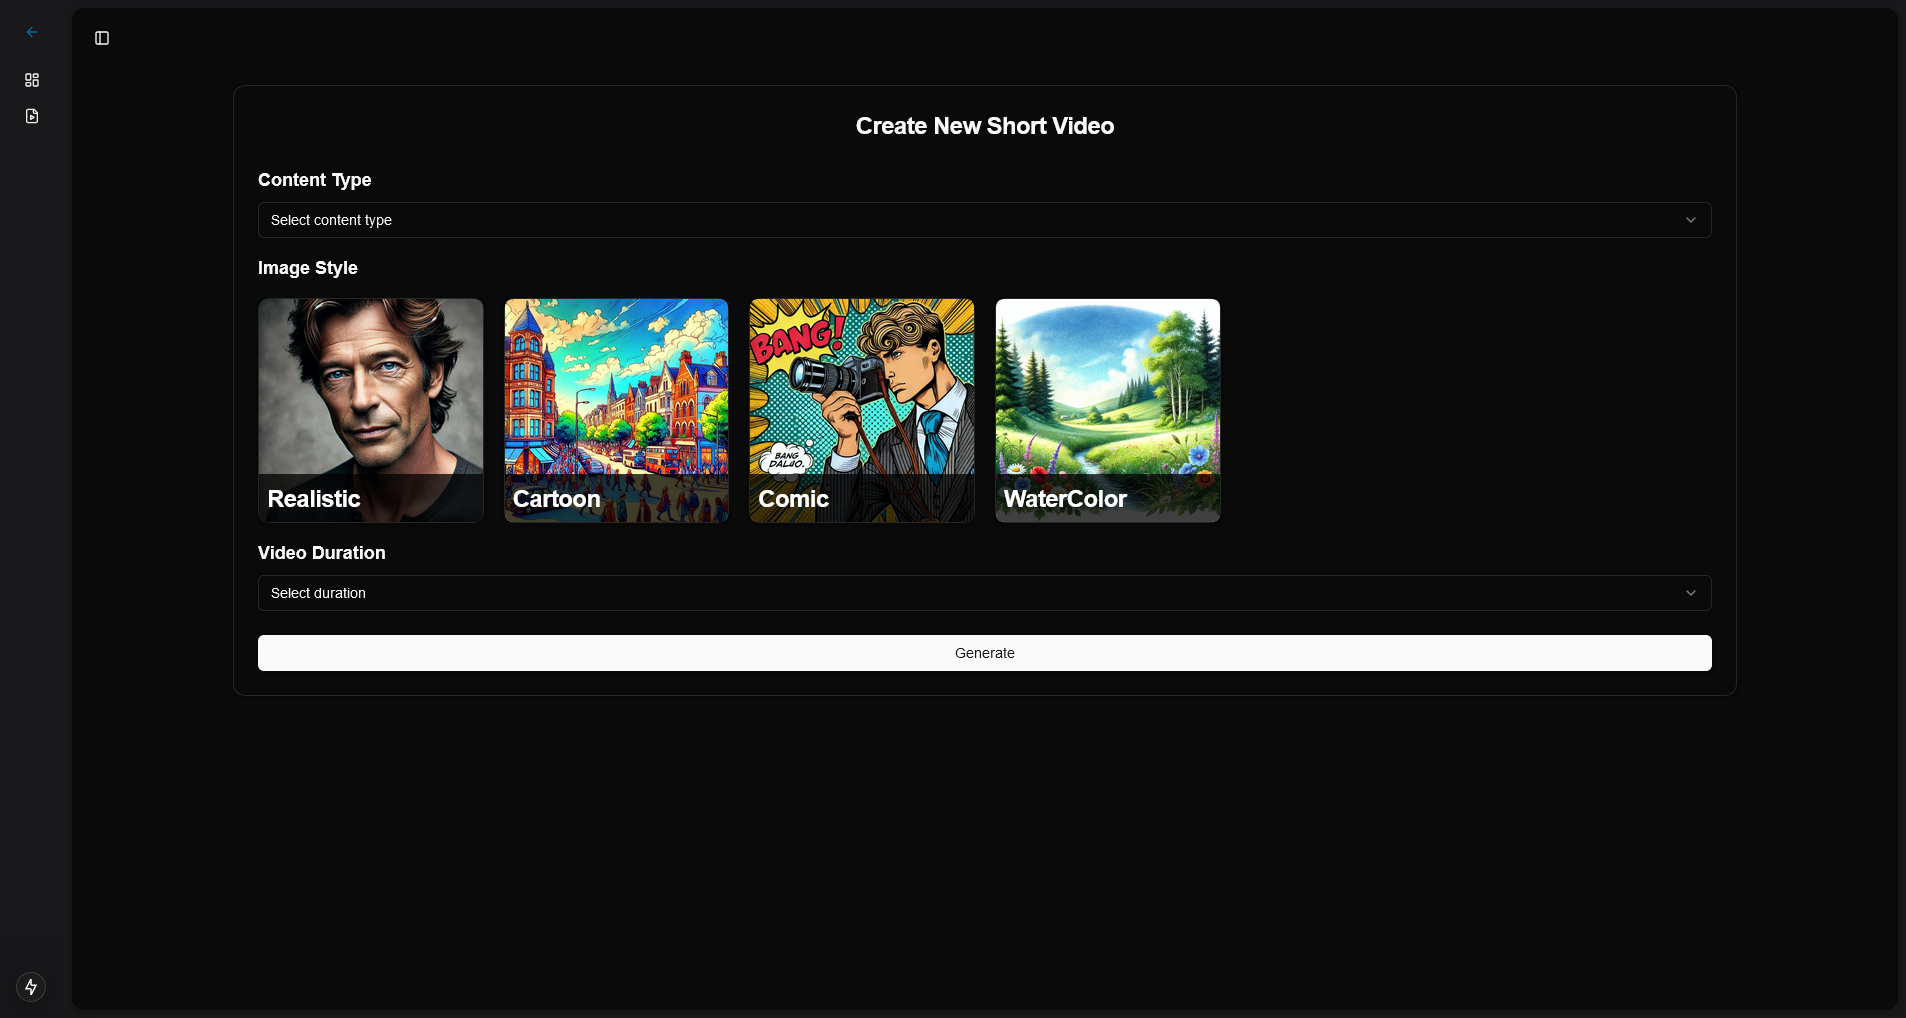
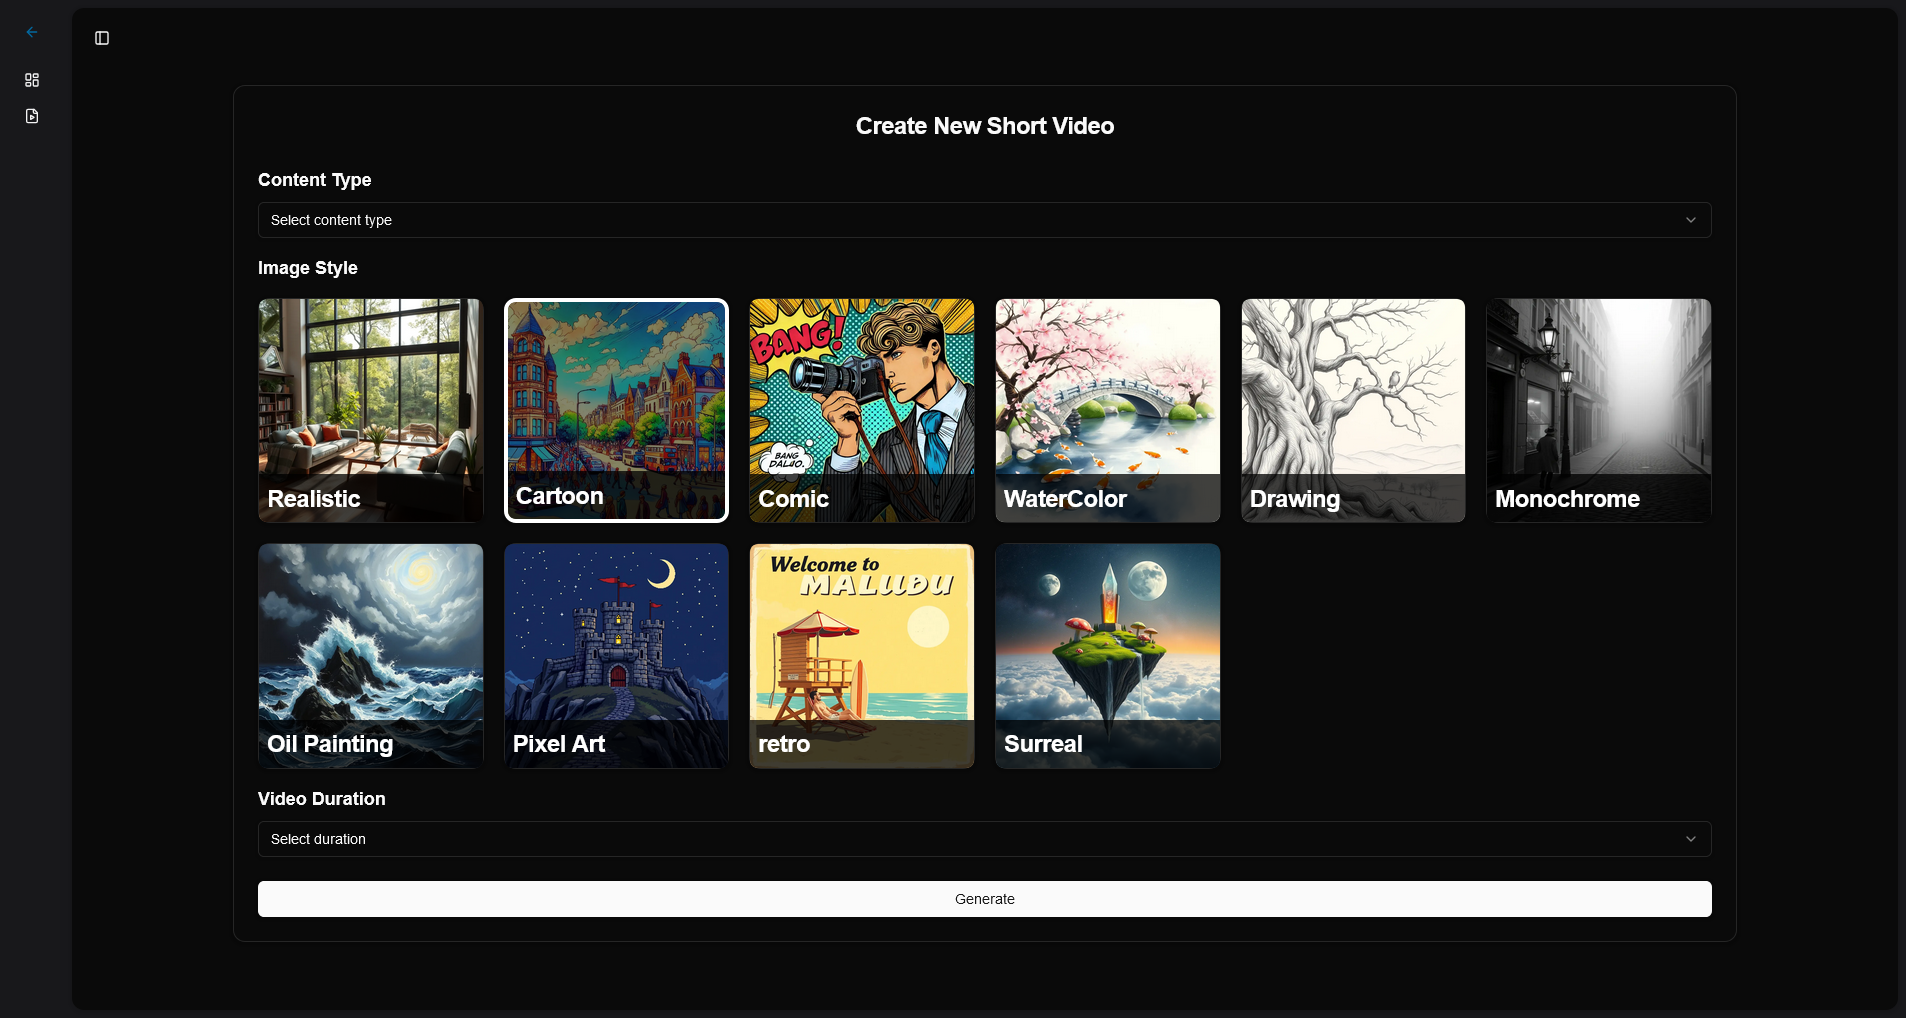
docs: update create new page image (#23)

Changed region(s): [[0.1238, 0.2741, 0.8977, 0.7917], [0.1238, 0.8222, 0.8977, 0.9136]]

diff --git a/README.md b/README.md
@@ -1,0 +1,152 @@
+# AI Shorts Video Generator
+
+This is a monorepo project that includes both the [frontend](./frontend/README.md) and [backend](./backend/README.md) for the AI Shorts Video Generator. The application allows users to generate short videos using AI, with features such as video creation, preview, and export. The frontend is built with Next.js, while the backend is built with ASP.NET Core and integrates with various AI services.
+
+## Table of Contents
+
+- [Features](#features)
+- [Requirements](#requirements)
+- [Installation](#installation)
+- [Environment Variables](#environment-variables)
+- [Development](#development)
+- [API Endpoints](#api-endpoints)
+- [Dependencies](#dependencies)
+- [Usage](#usage)
+
+## Features
+
+- **Video Creation**: Users can create short videos by selecting topics, styles, and durations.
+- **Video Preview**: After generating a video, users can preview it with generated captions and images.
+- **Export Video**: Users can export the generated video once the rendering is completed.
+- **Theming**: Supports light and dark themes using `next-themes`.
+- **Responsive Design**: Built with Tailwind CSS for responsive and modern UI.
+- **Content Generation**: Create video content based on user input using Google's Gemini API.
+- **Audio Synthesis**: Convert text input to speech using Google Cloud Text-to-Speech API.
+- **Caption Generation**: Generate captions for audio or video files using AssemblyAI.
+- **Image Generation**: Generate images from text prompts using Cloudflare's AI API.
+- **Video Storage**: Save and retrieve video data, including associated content and captions.
+
+## Requirements
+
+- Node.js (v18.x or above)
+- [.NET 9 SDK](https://dotnet.microsoft.com/download/dotnet) or later
+- [PostgreSQL](https://www.postgresql.org/download/) for the database
+- [Cloudinary](https://cloudinary.com/) account and API key
+- [Cloudflare](https://www.cloudflare.com/) account and API key
+- [AssemblyAI](https://www.assemblyai.com/) API key
+
+## Installation
+
+1. Clone the repository to your local machine:
+
+    ```bash
+    git clone https://github.com/yourusername/AiShortsVideoGenerator.git
+    cd AiShortsVideoGenerator
+    ```
+
+2. Install frontend dependencies:
+
+    ```bash
+    cd frontend
+    npm install
+    ```
+
+3. Install backend dependencies:
+
+    ```bash
+    cd ../backend
+    dotnet restore
+    ```
+
+## Environment Variables
+
+Configure the following environment variables for both frontend and backend:
+
+### Frontend (`.env.local`)
+
+```plaintext
+NEXT_PUBLIC_API_URL=http://localhost:5211
+REMOTION_AWS_SERVE_URL=<Your AWS Serve URL for Remotion>
+```
+
+### Backend (appsettings.json)
+```json
+{
+  "Logging": {
+    "LogLevel": {
+      "Default": "Information",
+      "Microsoft.AspNetCore": "Warning"
+    }
+  },
+  "BaseUrl": "http://localhost:5211",
+  "GoogleApi": {
+    "GeminiKey": "your-gemini-api-key",
+    "TextToSpeechKey": "your-text-to-speech-api-key"
+  },
+  "AssemblyAi": {
+    "ApiKey": "your-assemblyai-api-key"
+  },
+  "CloudinaryUrl": "your-cloudinary-url",
+  "Cloudflare": {
+    "ApiKey": "your-cloudflare-api-key",
+    "AccountId": "your-cloudflare-account-id"
+  },
+  "ConnectionStrings": {
+    "DefaultConnection": "your-postgresql-connection-string"
+  }
+}
+```
+
+## Development
+
+### Frontend
+To run the frontend application in development mode:
+
+```bash
+cd frontend
+npm run dev
+```
+
+### Backend
+To run the backend application:
+
+```bash
+dotnet ef database update
+dotnet run
+```
+
+## API Endpoints
+
+- **POST /generate-content**: Generate video content from user input using Google's Gemini API.
+- **POST /generate-audio**: Convert text input to audio (MP3) using Google Cloud Text-to-Speech API.
+- **POST /generate-captions**: Generate captions for an audio or video file using AssemblyAI.
+- **POST /generate-image**: Generate an image from a text prompt using Cloudflare's AI API.
+- **POST /save-video**: Save a video record to the database.
+- **GET /videos/{id}**: Get details of a video by its ID.
+- **GET /videos**: Retrieve a list of all videos stored in the database.
+
+## Dependencies
+
+### Frontend
+
+- **Next.js**: React framework for building server-side rendered applications.
+- **TailwindCSS**: Utility-first CSS framework for styling the app.
+- **Remotion**: Library for creating videos programmatically with React.
+- **Axios**: HTTP client for making requests to the API.
+- **shadcn**: A collection of re-usable components that you can copy and paste into your apps.
+
+### Backend
+
+- **Google.Cloud.TextToSpeech.V1**: Google Cloud Text-to-Speech client.
+- **AssemblyAI**: Client library for AssemblyAI services.
+- **CloudinaryDotNet**: Cloudinary SDK for uploading media.
+- **Npgsql.EntityFrameworkCore.PostgreSQL**: PostgreSQL support for Entity Framework Core.
+
+## Usage
+
+- **Dashboard**: Users can view and manage generated short videos.
+![Image of the dashboard page](./_docs/dashboard.png)
+- **Create New Video**: Users can define the video topic, style, and duration, and the app will generate the video content, audio, captions, and images using AI.
+![Image of the create new video page](./_docs/create-new.png)
+- **Video Preview & Export**: After the video is generated, users can preview it in the dialog and export it once rendered.
+![Image of the preview and export video](./_docs/preview-video.png)
